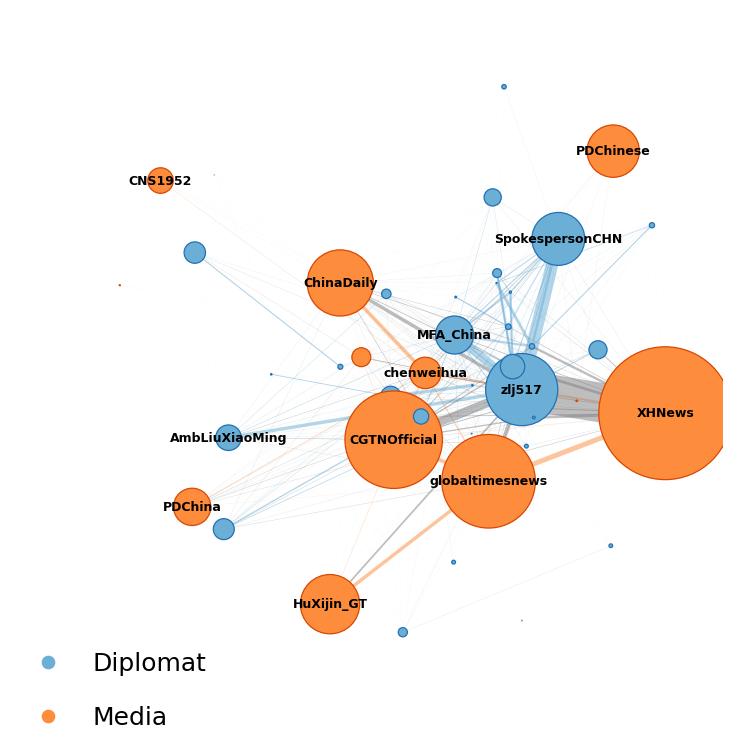
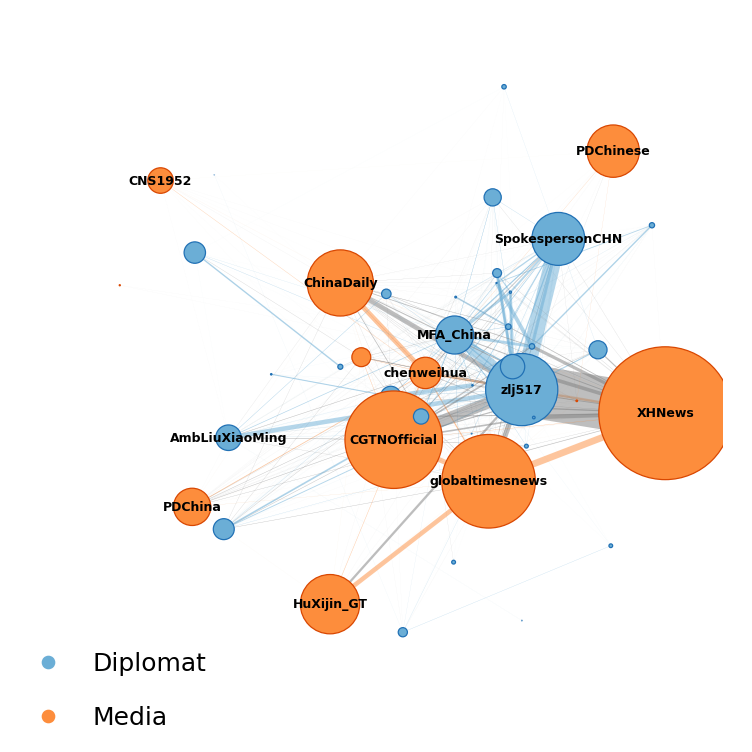
more tweaks

diff --git a/networks/src/network_main.py b/networks/src/network_main.py
@@ -205,9 +205,10 @@ def main(n_labels, infile, outfolder):
     edge_color = nx.get_edge_attributes(G, 'color').values()
 
     ''' mentions '''
+    edge_mult = 4.5
     print('--> generating mentions plot')
     node_divisor = 600*12
-    edge_divisor = 100*6
+    edge_divisor = 100*edge_mult
     title = 'Diplomats and Media sub-network (nodesize: total number of mentions)'
     filename = 'network_focus_mentions'
     nudge_triple = [
@@ -237,7 +238,7 @@ def main(n_labels, infile, outfolder):
     ## unweighted degree
     print('--> generating unweighted degree plot')
     node_divisor = 0.05*8
-    edge_divisor = 100*6
+    edge_divisor = 100*edge_mult
     title = 'Diplomats and Media sub-network (nodesize: number of neighbors)'
     filename = 'network_focus_unweighted_degree'
 
@@ -262,7 +263,7 @@ def main(n_labels, infile, outfolder):
     ## weighted degree 
     print('--> generating weighted degree plot')
     node_divisor = 2.5*8
-    edge_divisor = 100*6
+    edge_divisor = 100*edge_mult
     title = 'Diplomats and Media sub-network (nodesize: number of neighbors weighted)'
     filename = 'network_focus_weighted_degree'
 
@@ -287,7 +288,7 @@ def main(n_labels, infile, outfolder):
     ''' in-degree '''
     print('--> generating in-degree plot')
     node_divisor = 1.5*8
-    edge_divisor = 100*6
+    edge_divisor = 100*edge_mult
     title = 'Diplomats and Media sub-network (nodesize: in-degree -- inwards)'
     filename = 'network_focus_in_degree'
 
@@ -312,7 +313,7 @@ def main(n_labels, infile, outfolder):
     ## out-degree
     print('--> generating out-degree plot')
     node_divisor = 1.5*8
-    edge_divisor = 100*6
+    edge_divisor = 100*edge_mult
     title = 'Diplomats and Media sub-network (nodesize: out-degree -- outwards)'
     filename = 'network_focus_out_degree'
 

diff --git a/README.md b/README.md
@@ -210,18 +210,19 @@ For the purpose of this study data was collected from select twitter accounts, r
 ### Figures 
 
 #### Figure 1
-![alt text](https://github.com/centre-for-humanities-computing/china-twitter/blob/main/networks/fig/networks/network_focus_in_degree_seed11_k1.8.png)
+
+
 #### Figure 2
-![alt text](https://github.com/centre-for-humanities-computing/china-twitter/blob/main/networks/fig/networks/network_focus_mentions_seed11_k1.8.png?raw=true)
+![alt text](https://github.com/centre-for-humanities-computing/china-twitter/blob/main/networks/fig/networks/network_focus_mentions_seed11_k1.8.png)
 
 #### Figure 3
-![alt text](https://github.com/centre-for-humanities-computing/china-twitter/blob/main/networks/fig/networks/network_focus_weighted_degree_seed11_k1.8.png?raw=true)
+![alt text](https://github.com/centre-for-humanities-computing/china-twitter/blob/main/networks/fig/networks/network_focus_weighted_degree_seed11_k1.8.png)
 
 #### Figure 4
-![alt text](https://github.com/centre-for-humanities-computing/china-twitter/blob/main/networks/fig/networks/network_focus_in_degree_seed11_k1.8.png?raw=true)
+![alt text](https://github.com/centre-for-humanities-computing/china-twitter/blob/main/networks/fig/networks/network_focus_in_degree_seed11_k1.8.png)
 
 #### Figure 5
-![alt text](https://github.com/centre-for-humanities-computing/china-twitter/blob/main/networks/fig/networks/network_focus_out_degree_seed11_k1.8.png?raw=true)
+![alt text](https://github.com/centre-for-humanities-computing/china-twitter/blob/main/networks/fig/networks/network_focus_out_degree_seed11_k1.8.png)
 
 #### Figure 6
 
